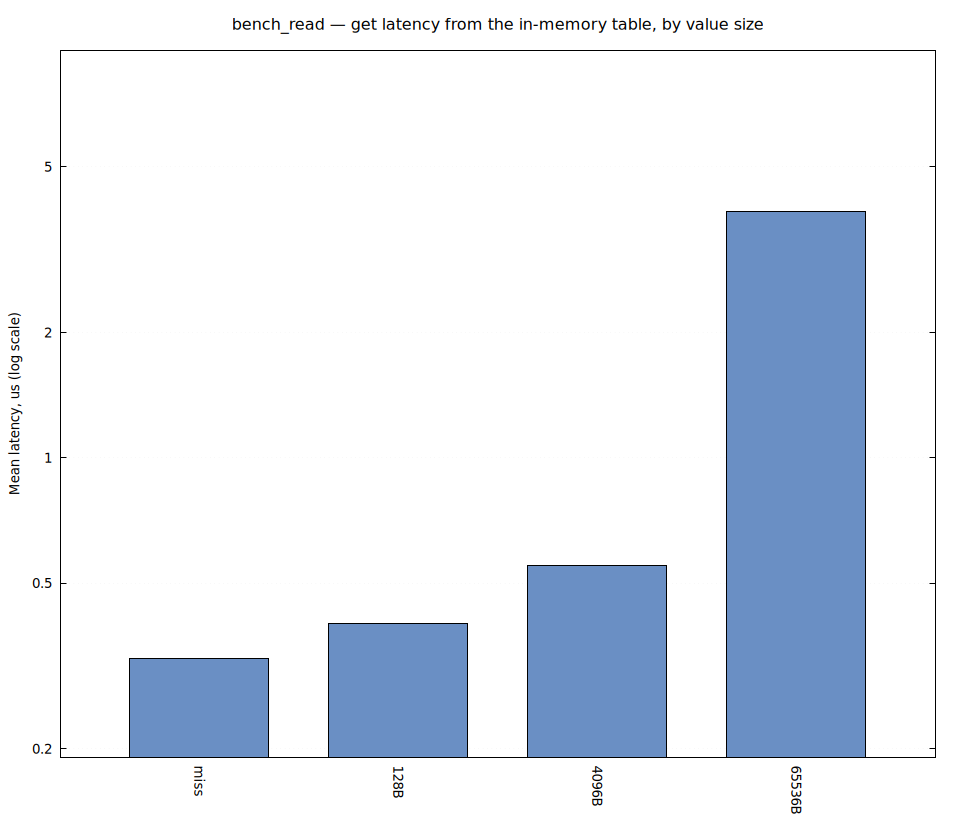
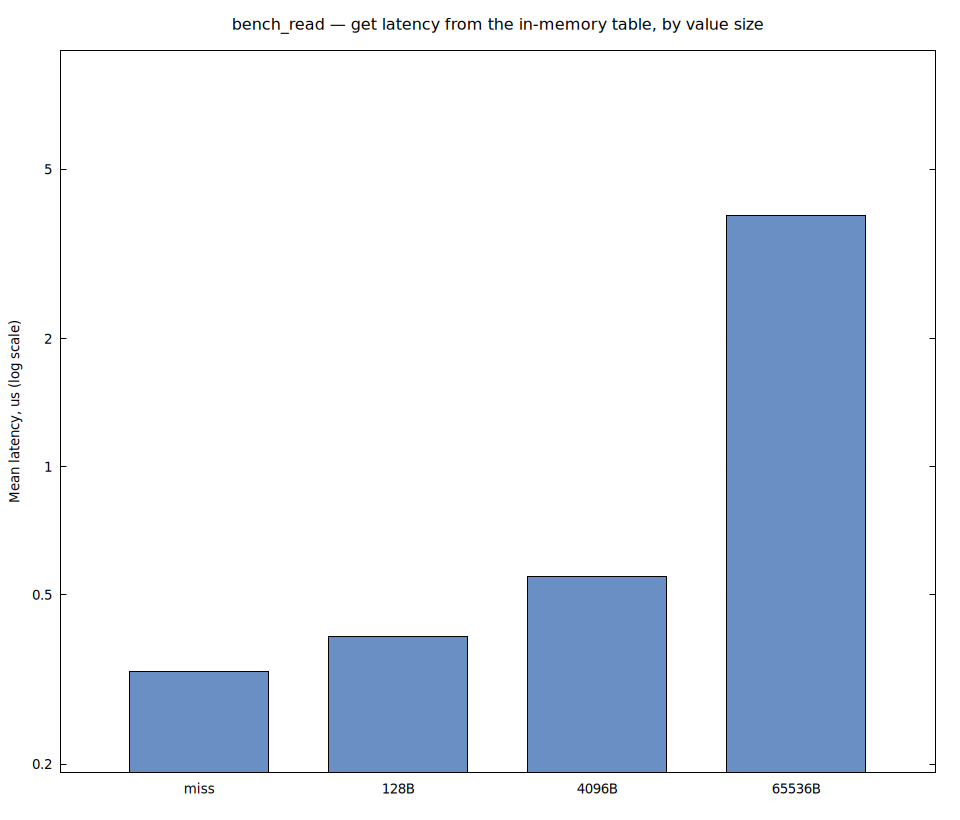
docs(bench): per-family distance-estimation charts, horizontal stacked labels
Same treatment as bench_typed for bench_distance_estimation: the pipeline chart
becomes cluster-assignment and pass1-layers, and the end-to-end chart becomes
one per sweep (query length, chunks per document) on a shared axis. Each chart
now holds a single comparison, so the batched-vs-serial pairs and the cumulative
pass1 layers sit on adjacent bars instead of being interleaved by value across
two unrelated families.

Rotated x labels are read sideways one character at a time. Labels now stack
horizontally under their bar, one name-part per line, whenever the widest part
fits the bar width; a chart too narrow for that still falls back to rotation.
Applies to every chart, not just the ones touched here — 30 of 31 are now
horizontal, predicate being the sole fallback because its names genuinely are
that long.

Two charts needed help to qualify rather than accepting rotation: the 16-bar
prefix/range chart split into scan_prefix and scan_range (shared axis), and the
merge and WAL write charts got their labels segmented so the parts stack short.
The first fit estimate was too optimistic and labels collided, so the
px-per-char figure is now measured against the widest glyphs with a 10% gutter —
an overflowing label is worse than an honestly rotated one.

28 charts become 31; doc references, files on disk and the chart spec remain a
verified 1:1 match.

diff --git a/minnal_db/docs/benchmarks/tools/plot.py b/minnal_db/docs/benchmarks/tools/plot.py
@@ -167,11 +167,32 @@ for chart in charts:
             yrange = f"[{max(0, lo - pad):.6g}:{hi + pad:.6g}]"
         ytics = "set ytics autofreq"
 
-    # Labels are rotated vertical, so the bottom margin has to clear the
-    # longest one; a fixed margin either clips long labels or leaves a band of
-    # dead space under short ones.
-    longest = max(len(lbl) for lbl in labels)
-    bmargin = max(4, min(24, round(longest * 0.72)))
+    # Rotated labels are read sideways, one character at a time. Where the
+    # labels are short enough to fit under their own bars, stack their
+    # slash-separated parts on separate lines and leave them horizontal — a
+    # two-line "batched_matrix / 4" under the bar reads instantly, the same
+    # string rotated 90 degrees does not. Rotate only when the bars are too
+    # narrow for that.
+    # 7.6 px/char is DejaVu Sans 10 measured against the widest glyphs, and the
+    # 0.9 factor leaves a gutter so neighbouring labels cannot touch. Both are
+    # deliberately pessimistic: a label that overflows collides with the one
+    # next to it and is worse than an honestly rotated one.
+    PX_PER_CHAR, PLOT_PX = 7.6, 880.0
+    per_bar_px = PLOT_PX / max(1, len(labels))
+    widest_part = max((max(len(part) for part in lbl.split("/")) for lbl in labels), default=0)
+    horizontal = widest_part * PX_PER_CHAR <= per_bar_px * 0.9
+
+    if horizontal:
+        deepest = max(lbl.count("/") for lbl in labels) + 1
+        bmargin = max(3, deepest + 2)
+        xtics_rotate = "set xtics scale 0 noenhanced"
+        with dat.open("w") as f:
+            for i, lbl in enumerate(labels):
+                f.write(f'{i}\t{rows[picked[i]] / div:.6g}\t"{lbl.replace("/", chr(92) + "n")}"\n')
+    else:
+        longest = max(len(lbl) for lbl in labels)
+        bmargin = max(4, min(24, round(longest * 0.72)))
+        xtics_rotate = "set xtics rotate by -90 scale 0 noenhanced"
 
     gp = work / (chart["file"].replace(".png", ".gp"))
     gp.write_text(f"""
@@ -185,7 +206,7 @@ set boxwidth 0.7
 {logscale}
 {ytics}
 set grid ytics lc rgb "#dddddd"
-set xtics rotate by -90 scale 0 noenhanced
+{xtics_rotate}
 set key off
 set bmargin {bmargin}
 set yrange {yrange}

diff --git a/minnal_db/benchmark.md b/minnal_db/benchmark.md
@@ -73,6 +73,10 @@ rather than decoded against the table:
   a trend. The exception is the durable-CRUD chart, which is deliberately zoomed
   to a 2.26-2.34 ms window so the ordering is legible; its spread is noise, as
   that section explains.
+- **Labels sit horizontally under their bars wherever they fit**, with each part
+  of the name on its own line, so they are read at a glance rather than sideways
+  a character at a time. Only a chart whose bars are too narrow for that falls
+  back to rotated labels.
 
 Everything ran with Criterion's defaults — 100 samples per case, a 3-second
 warm-up, a 10-second measurement window, 95% confidence intervals. The one
@@ -310,15 +314,18 @@ pages the pagination bookkeeping itself dominates the cost regardless of which
 tier the data sits in, so the usual tier gap simply doesn't get a chance to
 show.
 
-![Prefix and range scans by tier and result size](docs/benchmarks/scan_prefix_range.png)
+![Prefix scan by tier, matching keys and value size](docs/benchmarks/scan_prefix.png)
+
+![Range scan by tier and result count](docs/benchmarks/scan_range.png)
 
 ![Cursor pagination by page size and tier](docs/benchmarks/scan_cursor.png)
 
 ![Full async iteration by value size and tier](docs/benchmarks/scan_iter.png)
 
-*Each comparison in this section gets its own axis. The prefix/range chart is
-grouped by tier so the consistent ~2x ratio shows up as two same-shaped blocks.
-The cursor chart is deliberately *not* grouped: sorted by value, `l1/100`
+*One chart per scan type, and the prefix and range charts share an axis so the
+two can be compared with each other. Sorted by value, each `memtable`/`l1` pair
+at a given size lands on adjacent bars, so the consistent ~2x ratio is the step
+between neighbours. The cursor chart is a deliberate exception: sorted by value, `l1/100`
 lands first and `memtable/100` second, which is the small-page inversion stated
 above, and tier blocks would have put those two bars at opposite ends. The
 trailing number is whatever that scan type varies — matching keys for `prefix`,
@@ -566,26 +573,32 @@ clusters were requested. `select_nth` occupies the three cheapest bars and
 `full_sort` the three dearest, and `full_sort` is flat because it sorts all 256
 clusters whatever you ask for.*
 
-![Query-to-cluster assignment and first-pass layers](docs/benchmarks/semantic_pipeline.png)
+![Assigning a query's chunks to clusters](docs/benchmarks/semantic_cluster_assignment.png)
 
-*`coarse_assignment` contrasts two ways of assigning a multi-chunk query to its
-nearest clusters: `serial_hashmap` walks the query's chunks one at a time,
-looking each one up individually in a scattered `HashMap` of clusters, while
+*Two ways of assigning a multi-chunk query to its nearest clusters, paired at
+each query size. `serial_hashmap` walks the query's chunks one at a time,
+looking each one up individually in a scattered `HashMap` of clusters;
 `batched_matrix` — the current approach — scores all of a query's chunks at once
 against a single contiguous matrix of cluster centroids. That contiguity is what
-produces the speedup, through better cache locality and more vectorizable math.
-`pass1_scoring` peels the first pass apart into cumulative layers, starting from
-the bare distance math (`dot_arithmetic`), then adding the cost of reading the
-on-disk format (`plus_archived`), and finally the real scoring data structure
-(`plus_hashmap`), which is the closest of the three to what production actually
-pays.*
+produces the speedup, through better cache locality and more vectorizable math,
+and the chart shows it as the gap within each adjacent pair.*
 
-![Complete searches](docs/benchmarks/semantic_end_to_end.png)
+![First pass, peeled apart into cumulative layers](docs/benchmarks/semantic_pass1_layers.png)
 
-*Complete searches on a linear millisecond axis: `end_to_end_search` varies the
-query length, `end_to_end_multichunk` the per-document chunk count. The
-sub-linear query scaling and the near-linear chunk scaling described above are
-both read straight off this chart.*
+*The first pass in cumulative layers, starting from the bare distance math
+(`dot_arithmetic`), then adding the cost of reading the on-disk format
+(`plus_archived`), and finally the real scoring data structure (`plus_hashmap`),
+which is the closest of the three to what production actually pays. Each layer
+is dearer than the one below it at both query sizes.*
+
+![Complete search as the query grows](docs/benchmarks/semantic_query_length.png)
+
+![Complete search as documents gain chunks](docs/benchmarks/semantic_chunks_per_doc.png)
+
+*The two end-to-end sweeps, on a shared millisecond axis so they can be read
+against each other: the query-length sweep is visibly sub-linear (ten times the
+query for 2.19x the cost) while the chunk sweep is not (eight times the chunks
+for 5.36x), which is the capped-re-ranking argument above in picture form.*
 
 ---
 
